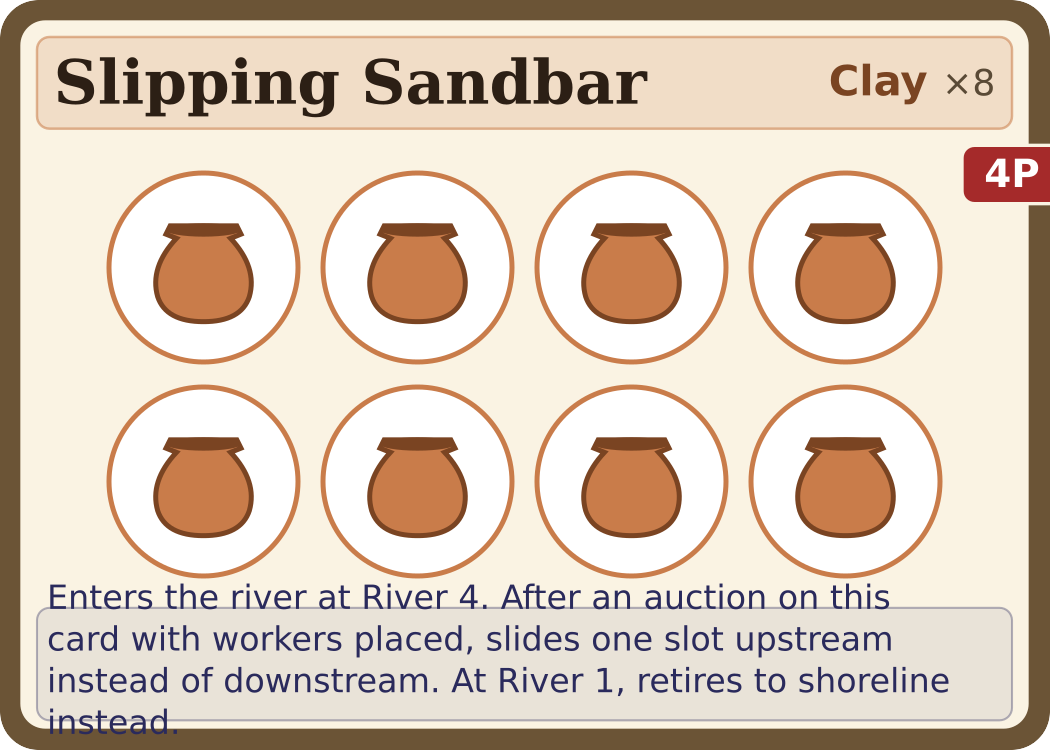
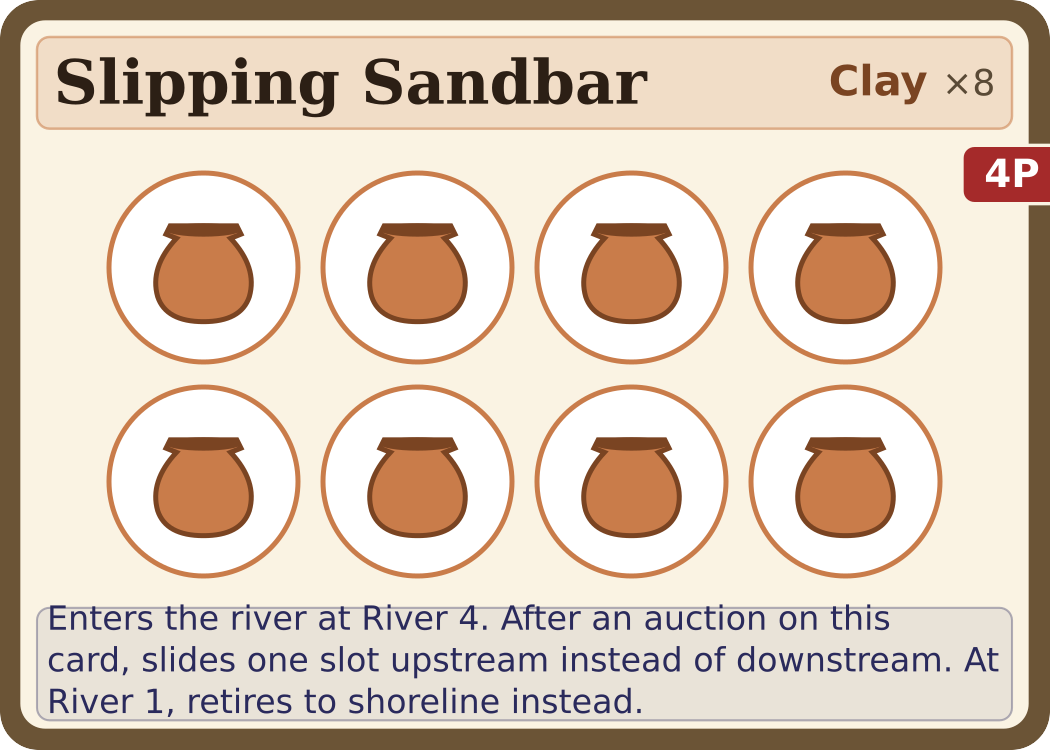
River Bankers: trim Slipping Sandbar effect text to fit its box
The July-4 wording ("...After an auction on this card with workers
placed, slides one slot upstream...") overflowed the card's effect box.
Dropped "with workers placed" so it fits in 3 lines; the precise
workers-placed condition still holds in code and in the rulebook. Text
updated in material cards.json, BGA Material.php, and web/index.html;
Slipping Sandbar card PNG regenerated (print + web + served).

Changed region(s): [[0.0305, 0.7667, 0.9448, 0.9813]]

diff --git a/web/index.html b/web/index.html
@@ -3205,7 +3205,7 @@ function effectDescription(card) {
     case 'peek-rearrange':
       return `When you build using workers from this card, peek at the top 2 material cards and rearrange them.`;
     case 'slipping-sandbar':
-      return `Enters the river at River 4. After an auction on this card with workers placed, slides one slot upstream instead of downstream. At River 1, retires to shoreline instead.`;
+      return `Enters the river at River 4. After an auction on this card, slides one slot upstream instead of downstream. At River 1, retires to shoreline instead.`;
     case 'old-growth':
       return `If this card is at River 3 or 4, each worker you retrieve yields 2 ${card.material} instead of 1.`;
     default:

diff --git a/bga/modules/php/Material.php b/bga/modules/php/Material.php
@@ -41,7 +41,7 @@ class Material
         20 => ['name' => 'Clay Seep', 'material' => 'clay', 'icons' => 4],
         21 => ['name' => 'Clay Bank', 'material' => 'clay', 'icons' => 5],
         22 => ['name' => 'Mud Slick', 'material' => 'clay', 'icons' => 7, 'wildAlt' => 'mud', 'effect' => 'Wild: each claimed icon yields Mud OR Clay (chosen at build time).'],
-        23 => ['name' => 'Slipping Sandbar', 'material' => 'clay', 'icons' => 8, 'effect' => 'Enters the river at River 4. After an auction on this card with workers placed, slides one slot upstream instead of downstream. At River 1, retires to shoreline instead.'],
+        23 => ['name' => 'Slipping Sandbar', 'material' => 'clay', 'icons' => 8, 'effect' => 'Enters the river at River 4. After an auction on this card, slides one slot upstream instead of downstream. At River 1, retires to shoreline instead.'],
         // 2P-ONLY shared stones/vines wild-5. At 2 players this replaces Rocky
         // Shoal (arg 5) + Trailing Vine (arg 17); at 3P+ it is left out of the
         // deck and the two vanilla 5s are used instead (see Game::setupNewGame).